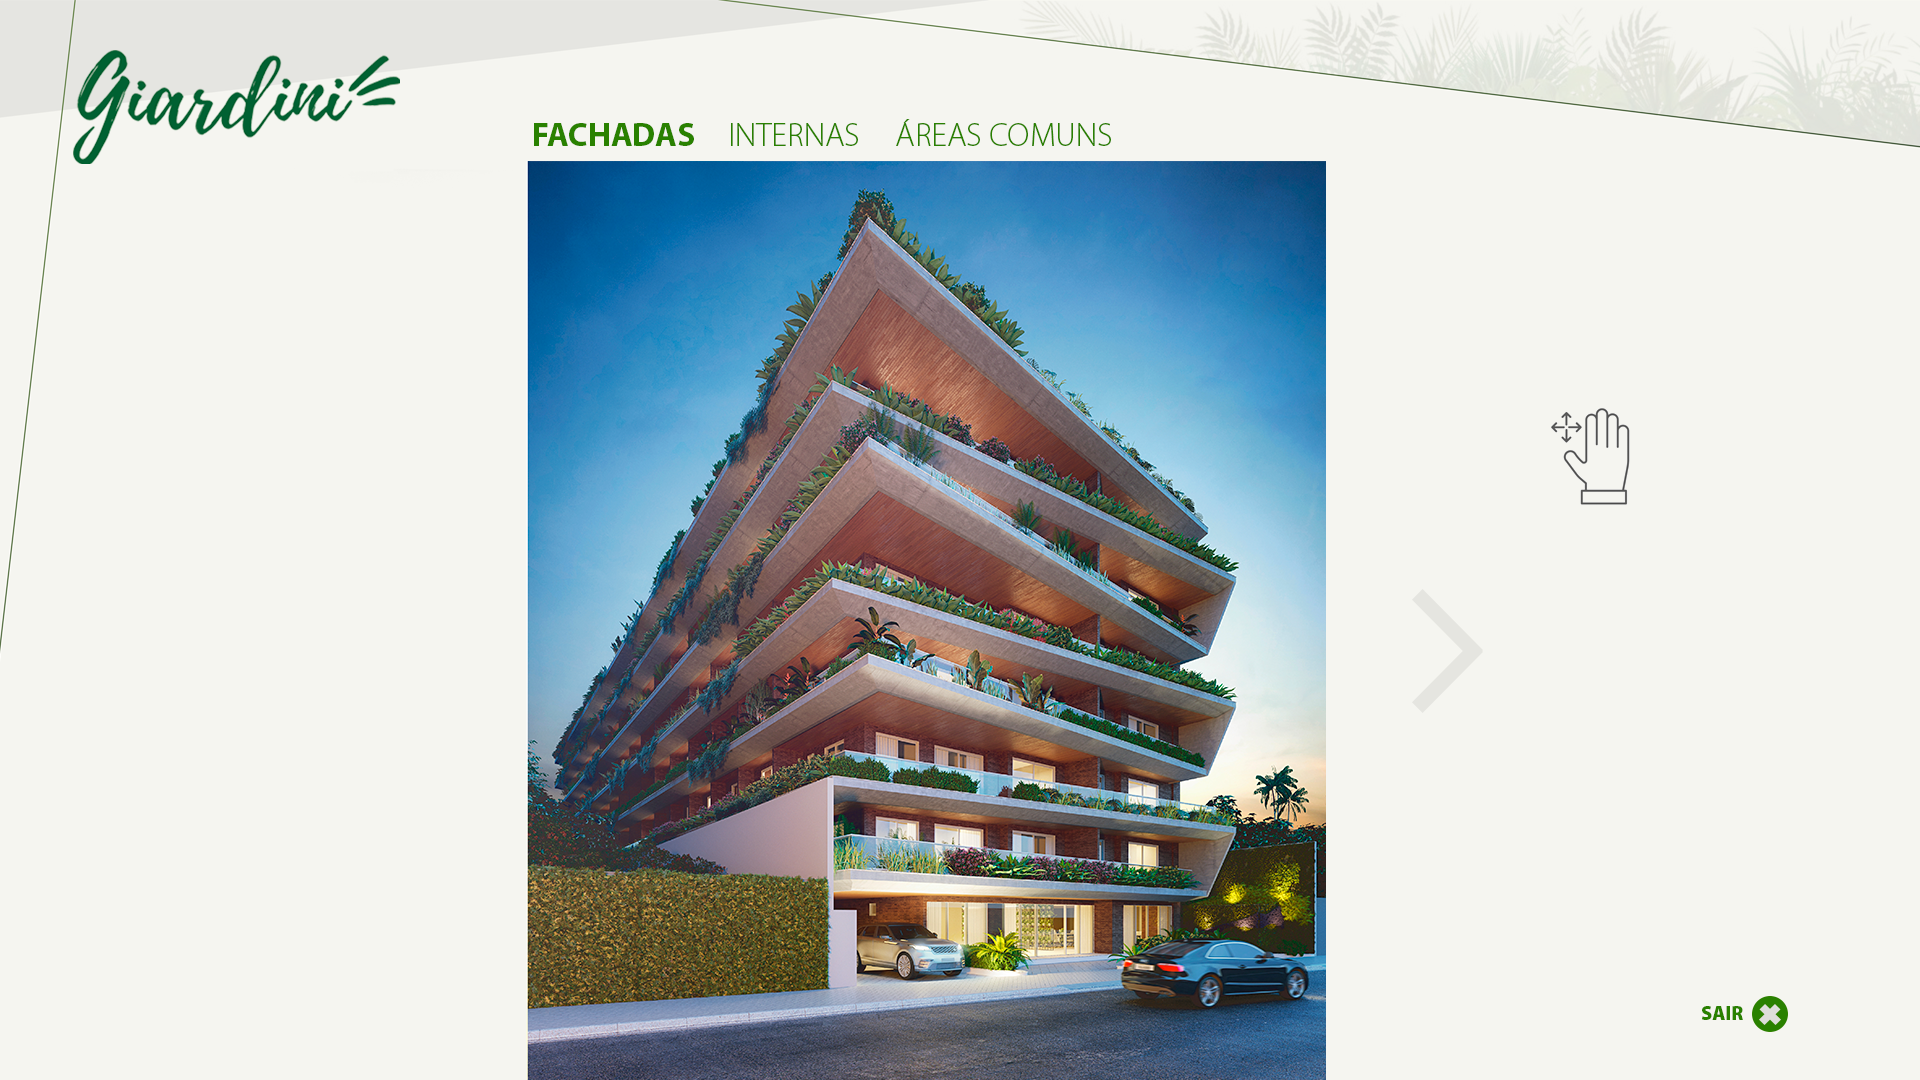
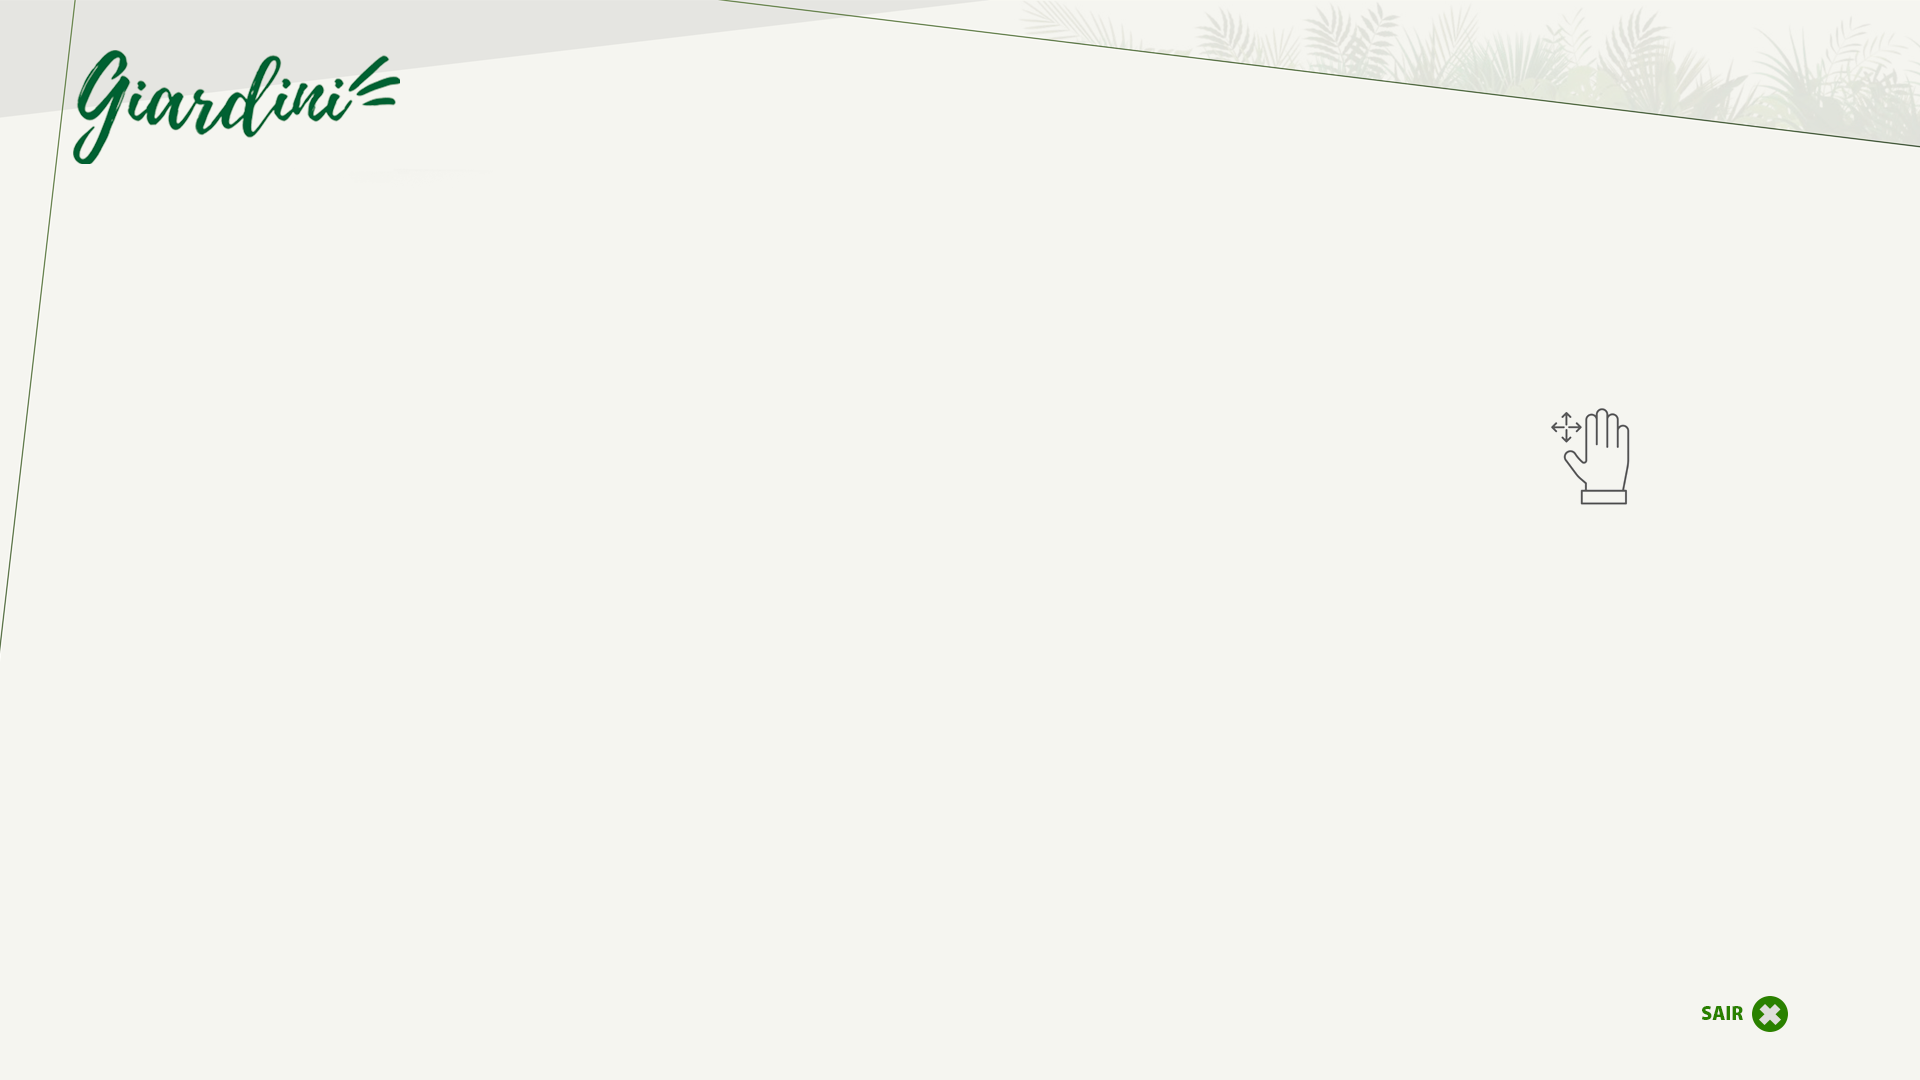
+++

diff --git a/src/views/GaleriaView.vue b/src/views/GaleriaView.vue
@@ -1,13 +1,33 @@
 <template>
   <div id="galeria">
 
+    <div class="tabs">
+      <router-link to="/galeria/fachadas">Fachadas</router-link>
+      <router-link to="/galeria/internas">Internas</router-link>
+      <router-link to="/galeria/areas_comuns">Áreas Comuns</router-link>
+    </div>
+
     <div class="slider-container">
 
-      <swiper style="height: 100%;" :modules="modules" :slides-per-view="1" :space-between="50" navigation :pagination="{ clickable: true }"
-        :scrollbar="{ draggable: true }" @swiper="onSwiper" @slideChange="onSlideChange">
-        <swiper-slide v-for="i in 24" v-bind:key="i">
-          <img :src="require(`@/assets/galeria/areas_comuns/${i}.jpg`)" alt="">
-        </swiper-slide>
+      <!-- :pagination="{ clickable: true }"
+      :scrollbar="{ draggable: true }"  -->
+      <swiper style="height: 100%;" :modules="modules" :slides-per-view="1" :space-between="50" navigation
+        @swiper="onSwiper" @slideChange="onSlideChange">
+        <template v-if="$route.params.path == 'fachadas'">
+          <swiper-slide v-for="i in 4" v-bind:key="i">
+            <img :src="require(`@/assets/galeria/fachadas/${i}.jpg`)" alt="">
+          </swiper-slide>
+        </template>
+        <template v-else-if="$route.params.path == 'internas'">
+          <swiper-slide v-for="i in 17" v-bind:key="i">
+            <img :src="require(`@/assets/galeria/internas/${i}.jpg`)" alt="">
+          </swiper-slide>
+        </template>
+        <template v-else>
+          <swiper-slide v-for="i in 24" v-bind:key="i">
+            <img :src="require(`@/assets/galeria/areas_comuns/${i}.jpg`)" alt="">
+          </swiper-slide>
+        </template>
       </swiper>
 
     </div>
@@ -58,17 +78,29 @@ export default {
   background-image: url(../assets/galeria.png);
   background-size: contain;
 
-  .slider-container{
-    outline: 1px solid red;
+  .slider-container {
+    //outline: 1px solid red;
     width: 50%;
     top: 15%;
     left: 25%;
-    height: 40%;
+    height: 70%;
 
-    img{
+    img {
       width: 100%;
       height: 100%;
       object-fit: contain;
+    }
+  }
+
+  .tabs{
+    top: 11%;
+    left: 27.8%;
+    text-transform: uppercase;
+    a{
+      padding-right: 20px;
+      text-decoration: none;
+      font-size: 1.35rem;
+      color: inherit;
     }
   }
 }

diff --git a/src/router/index.js b/src/router/index.js
@@ -32,7 +32,7 @@ const routes = [
     component: () => import('../views/RooftopView.vue')
   },
   {
-    path: '/galeria',
+    path: '/galeria/:path',
     name: 'galeria',
     component: () => import('../views/GaleriaView.vue')
   },

diff --git a/src/views/PavimentoView.vue b/src/views/PavimentoView.vue
@@ -27,7 +27,6 @@ export default {
     top: 15.6%;
     right: 26%;
     font-size: 2.1rem;
-    color: #3d8217;
     font-weight: bolder;
     font-family: monospace;
   }

diff --git a/src/App.vue b/src/App.vue
@@ -14,6 +14,7 @@ html{
   position: relative;
   background-image: url(./assets/default.png);
   background-size: contain;
+  color: #3d8217;
 }
 
 .view{
